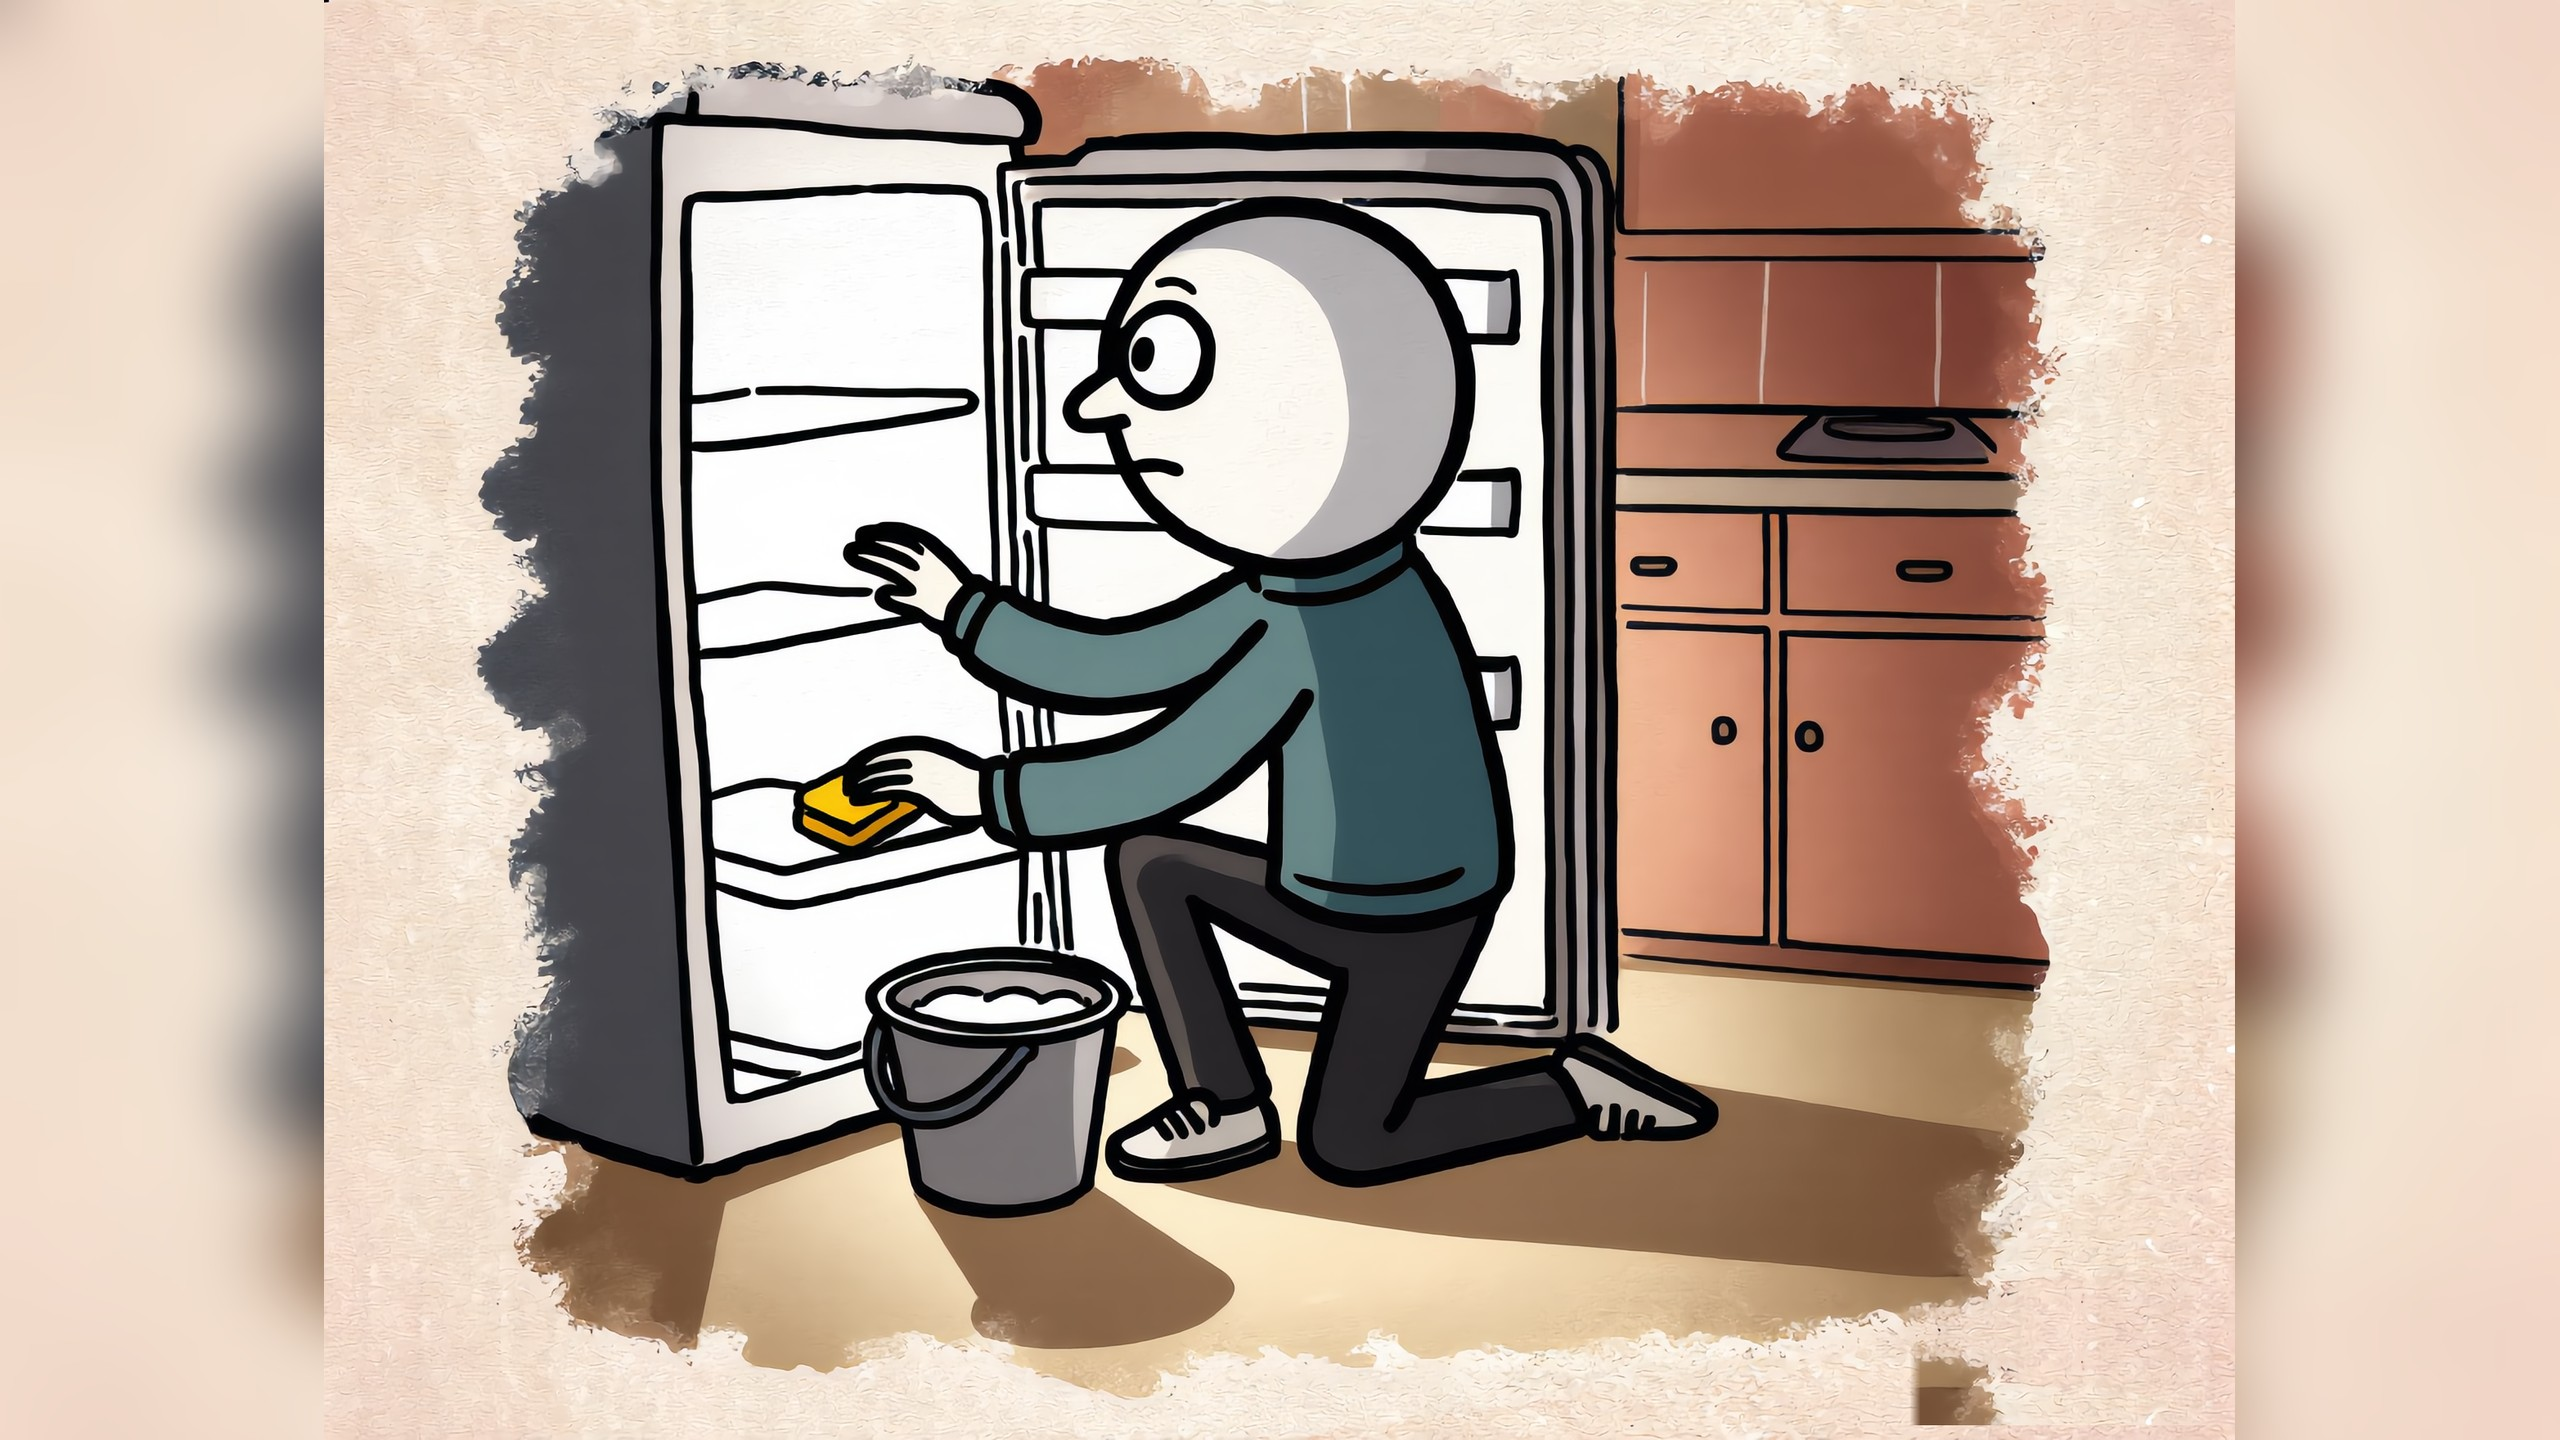
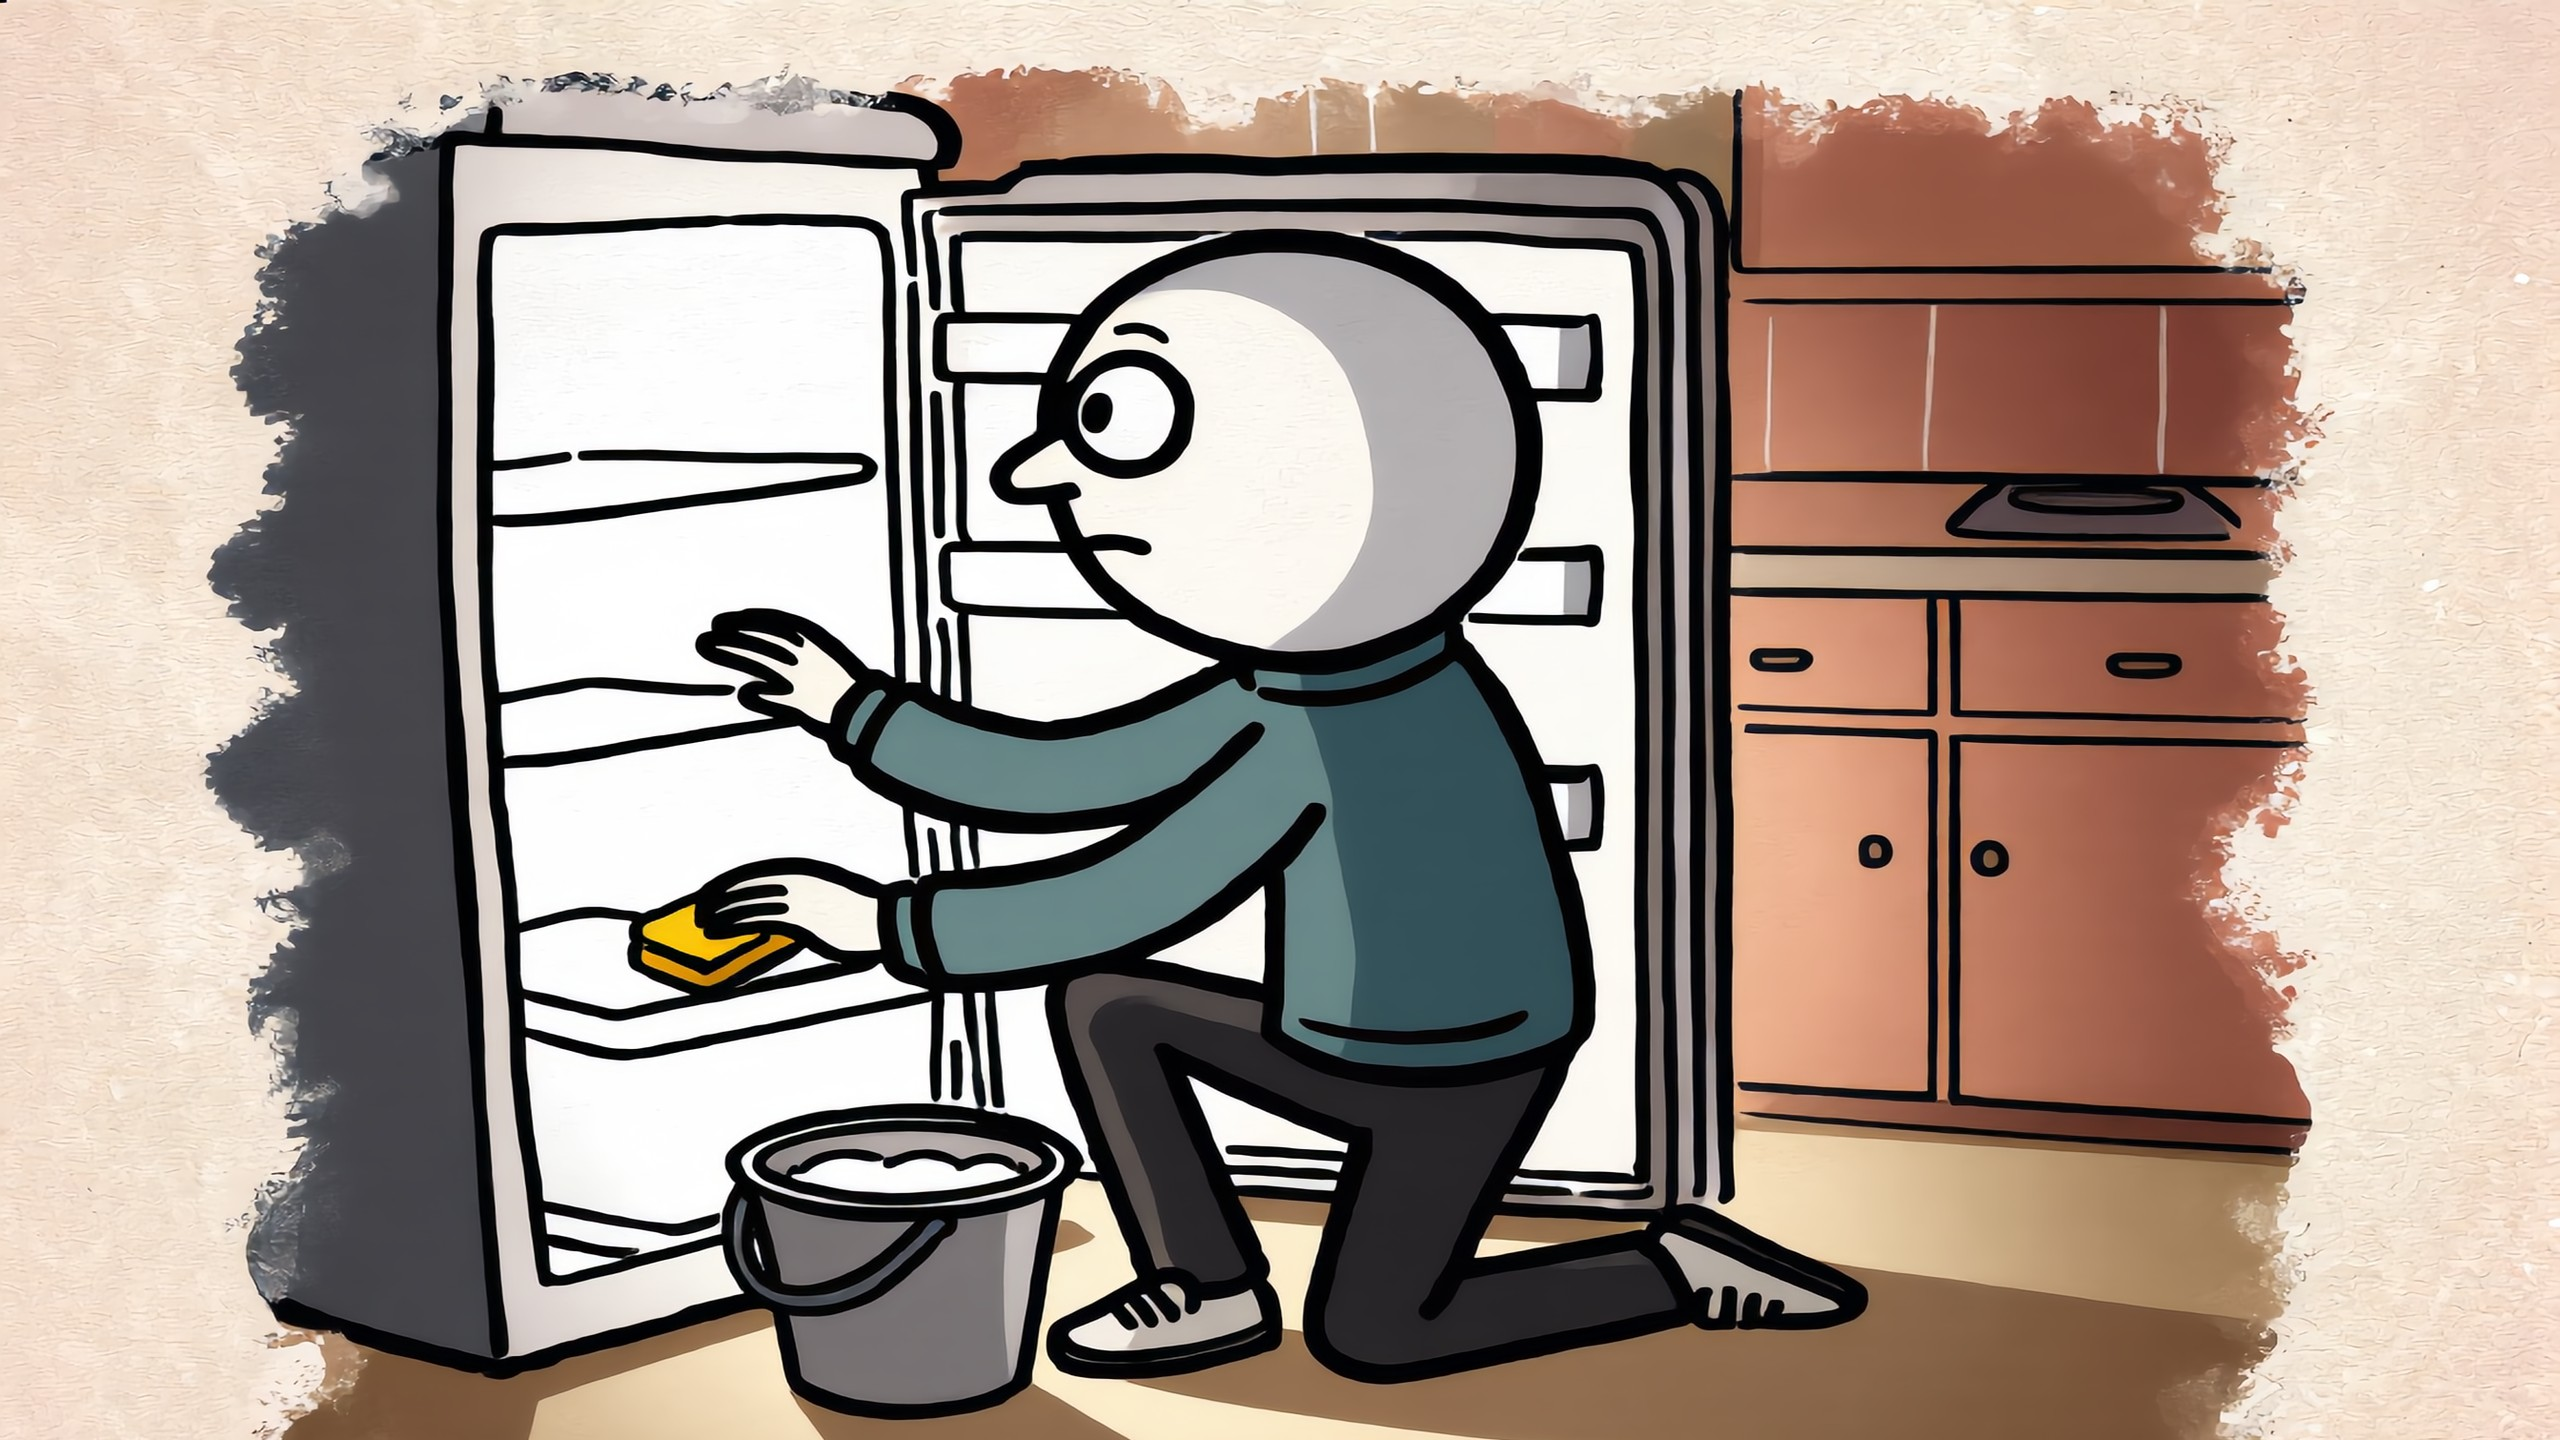
lf001: fill 16:9 for 4:3 frames (no blurred sides), keep heads in frame
Claude-Session: https://claude.ai/code/session_012CjNz3Cx5MEUvvFTm2V6Bd

diff --git a/longform/lf001-procrastination/tools/prep.py b/longform/lf001-procrastination/tools/prep.py
@@ -25,13 +25,17 @@ for s in range(1,136):
     if abs(r-16/9)<0.03:
         im=im.resize((W,H),Image.LANCZOS)
     else:
-        # contain on a canvas filled with the image's own edge colour
-        edge=ImageStat.Stat(im.crop((0,0,im.width,20))).median
-        canvas=Image.new('RGB',(W,H),tuple(int(v) for v in edge))
-        sc=H/im.height; im2=im.resize((int(im.width*sc),H),Image.LANCZOS)
-        # soft blurred fill on the sides
-        bg=im.resize((W,H),Image.LANCZOS).filter(ImageFilter.GaussianBlur(40))
-        canvas.paste(bg,(0,0)); canvas.paste(im2,((W-im2.width)//2,0)); im=canvas
+        # fill the whole 16:9 frame: stretch width a little, then crop height around the drawing
+        im=im.resize((int(im.width*1.15),im.height),Image.LANCZOS)
+        ch=int(im.width*9/16)
+        import numpy as np
+        g=np.asarray(im.convert('L'),dtype=np.float32)
+        ink=(np.abs(g-np.median(g))>40).sum(axis=1)   # how much drawing is in each row
+        rows=np.where(ink>im.width*0.01)[0]
+        rows=rows[rows>im.height*0.01]
+        first=int(rows[0]) if len(rows) else 0
+        by=min(max(0,first-int(im.height*0.03)),im.height-ch)
+        im=im.crop((0,by,im.width,by+ch)).resize((W,H),Image.LANCZOS)
     im.save(out+f'S{s:03d}.jpg',quality=90)
 json.dump(used,open('scene_images.json','w'))
 print('done', len(os.listdir(out)))

diff --git a/longform/lf001-procrastination/tools/build_tl.py b/longform/lf001-procrastination/tools/build_tl.py
@@ -66,6 +66,7 @@ for k,(sid,a,b,du,typ,ph) in enumerate(tl):
     if a<60 and typ not in ('КАРТОЧКА','СРАВНЕНИЕ') and o is None:  # livelier hook
         if cam['s1']>cam['s0']: cam['s1']=cam['s0']+0.16
     for key,v in (('x0',0),('x1',0),('y0',0),('y1',0),('ox',50),('oy',50)): cam.setdefault(key,v)
+    if int(sid[1:])<=17 and o is None: cam['oy']=20; cam['y0']=0; cam['y1']=0
     SC.append({'id':sid,'from':round(a*FPS),'to':round(b*FPS),'fade':sid in blocks and sid!='S001','cam':cam,'type':typ})
 start={x['id']:x['from']/FPS for x in SC}; end={x['id']:x['to']/FPS for x in SC}
 # ---------- overlays
